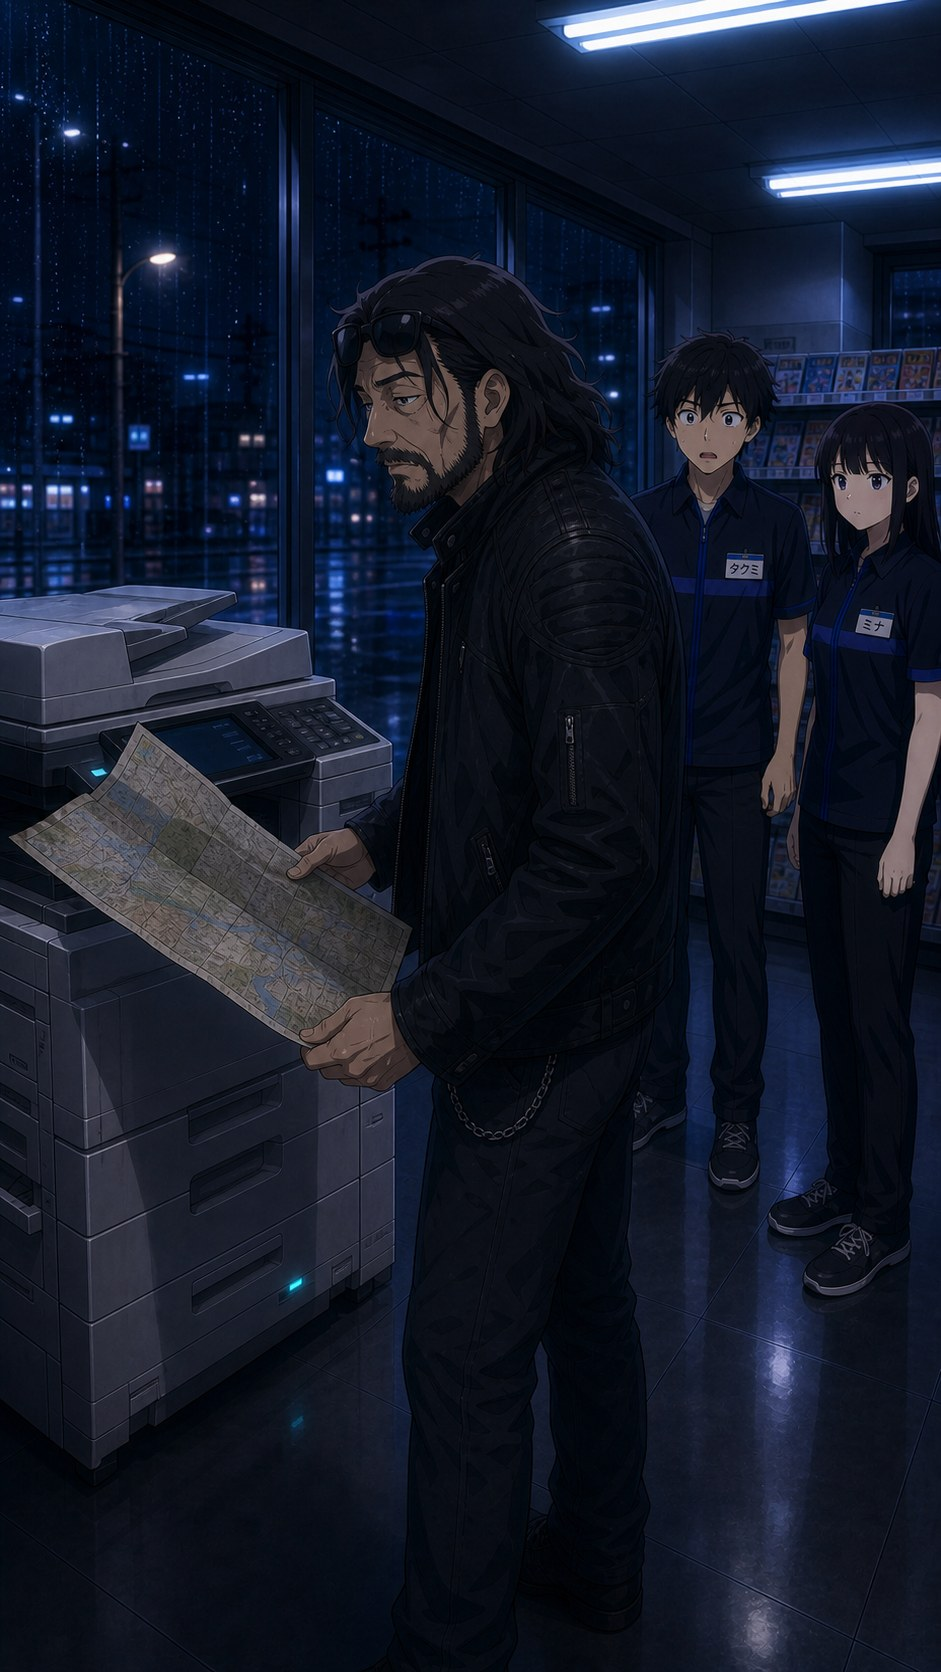
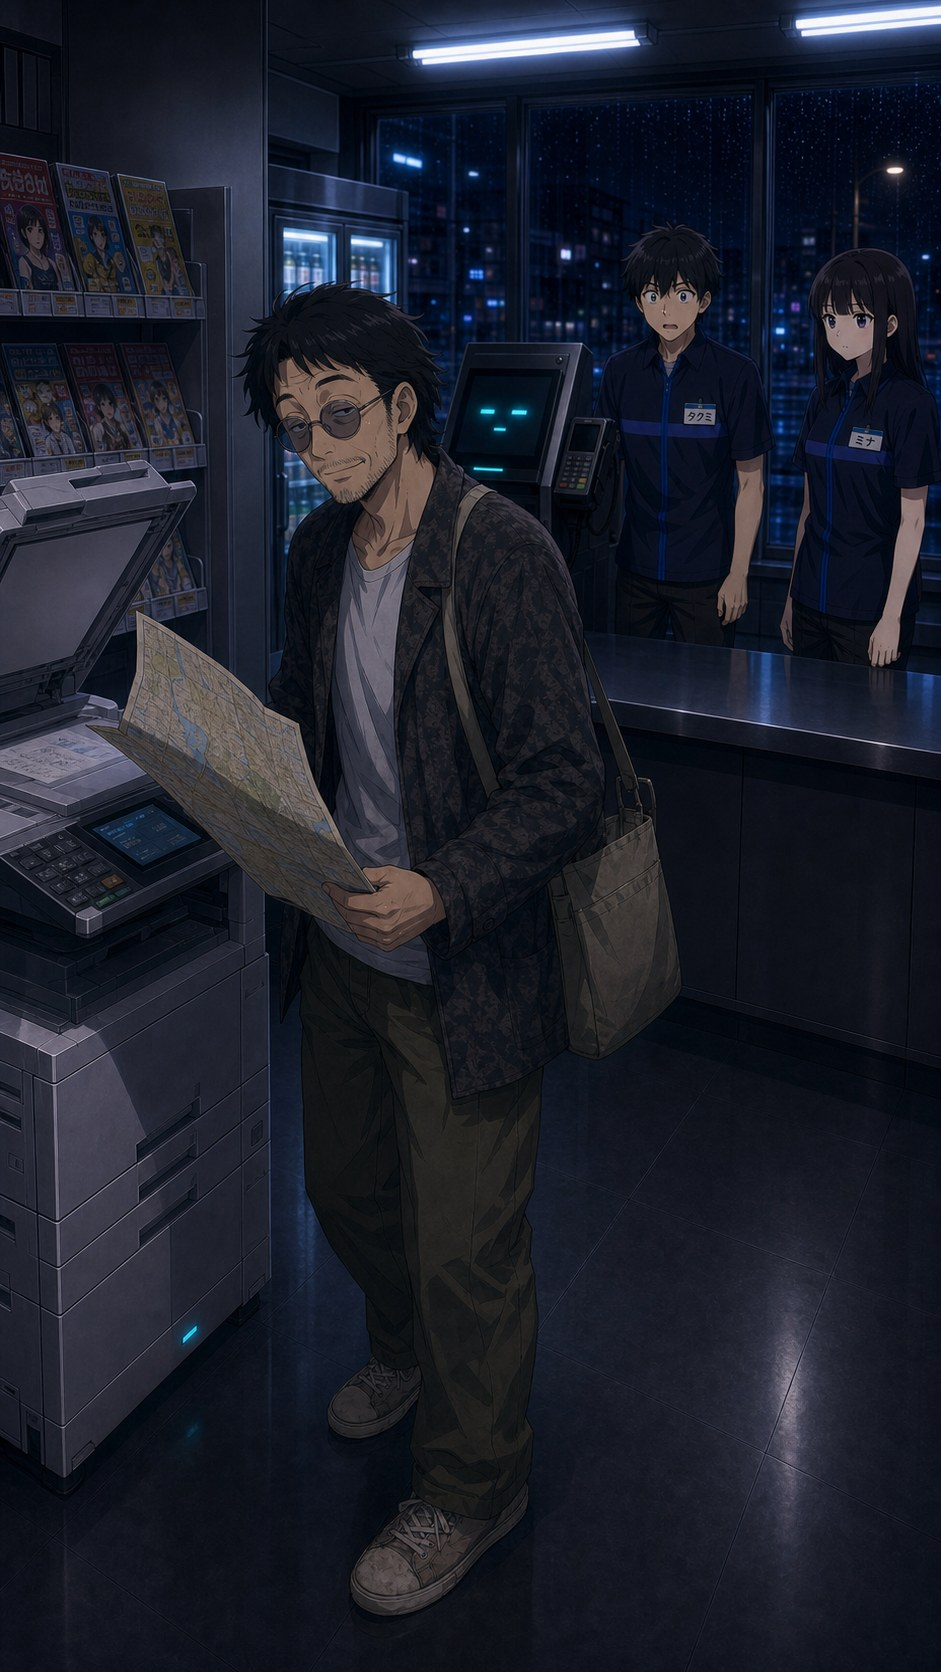
Redesign Zakiyama visual cut

diff --git a/build_visual_cut_plan.py b/build_visual_cut_plan.py
@@ -172,7 +172,7 @@ VISUAL_CUTS = [
         "title": "座木山辰哉、コピー機へ",
         "plannedImage": "assets/scenes/planned/ep01_vc17_zakiyama_copy.jpg",
         "fallbackImage": "assets/scenes/scene_08_back_to_normal.jpg",
-        "prompt": "眠そうな常連、座木山辰哉が古いツーリング地図を抱えてコピー機へ。長めの黒髪、濃い髭、バイクジャケット。",
+        "prompt": "眠そうな常連、座木山辰哉が古いツーリング地図を抱えてコピー機へ。奥田民生を思わせる脱力した中年ロックミュージシャンの雰囲気。ただし本人そっくりにはしない。短めのラフな黒髪、丸みのある眼鏡、薄い無精髭、くたっとしたワークジャケット、自然体で飄々とした大人。汗田竜司のような長髪・濃い髭・スポーツサングラス・バイクジャケットにはしない。",
     },
     {
         "visualCutId": "vc18",
